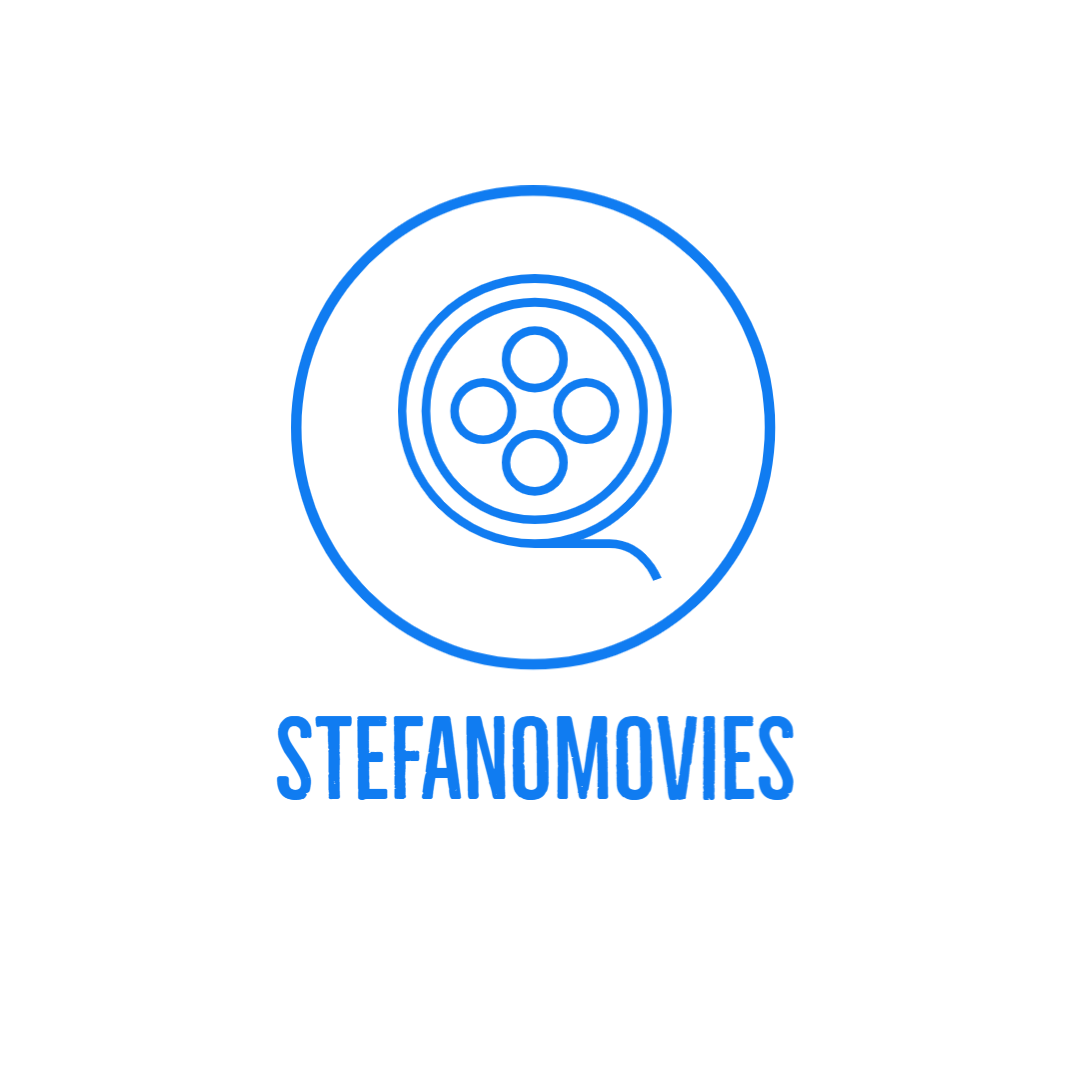
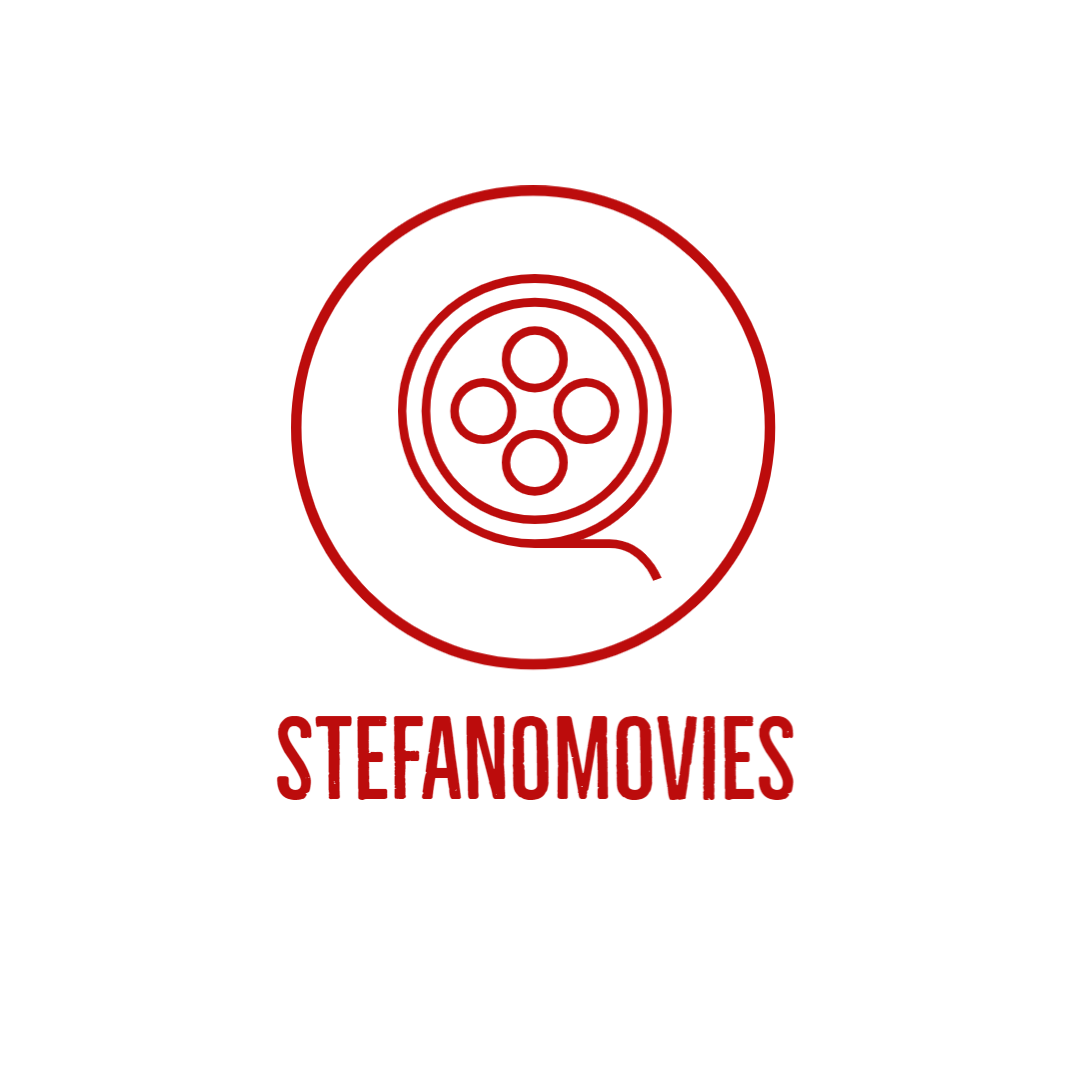
App theme changed and SingleMovieCard component created

diff --git a/src/components/SingleMovieCard.tsx b/src/components/SingleMovieCard.tsx
@@ -1,11 +1,27 @@
+import { useLocation } from "react-router-dom"
+import { Result } from "../interfaces/interfaces";
 import { Navbar } from "./Navbar"
 
+import '../styles/single-movie.css'
 
 export const SingleMovieCard = () => { 
+
+   const moviesState = useLocation().state as Result;
+   
     return(
         <>
         <Navbar />
-        <h1>Single Movie Card</h1>
+        <div id="single-movie-container"
+            style={{
+                backgroundImage: `url(https://image.tmdb.org/t/p/original/${moviesState.backdrop_path})`
+            }}
+        >
+            <div id="single-movie-content">      
+          
+            </div>
+            
+        </div>
+        
         </>
     )
  }

diff --git a/src/App.tsx b/src/App.tsx
@@ -1,6 +1,4 @@
-import { Route, Routes } from 'react-router-dom';
-import { Movies } from './components/Movies';
-import { Navbar } from './components/Navbar';
+import { Navigate, Route, Routes} from 'react-router-dom';
 import { SingleMovieCard } from './components/SingleMovieCard';
 import { MoviesScreen } from './screens/MoviesScreen';
 
@@ -9,7 +7,9 @@ const App = () => {
   return (
     <Routes>
       <Route path='/' element={<MoviesScreen/>} />
-      <Route path='/movie/:id' element={<SingleMovieCard/>}/>
+      <Route path='/movie/:id' element={<SingleMovieCard />}/>
+      {/* <Navigate to='/' /> */}
+      {/* <Route path='*' element={<Redirect to='/'/>}/> */}
     </Routes>
   )
 }

diff --git a/src/styles/navbar.css b/src/styles/navbar.css
@@ -7,10 +7,11 @@
 .search-bar{
     display: flex;
     padding: 0 10px;
+    margin-right: 3rem;
 }
 
 .search-bar input{
-    border: 1.2px solid #0C62BC;
+    border: 1.2px solid #bc0c0c;
     border-radius: 10px;    
     color: white;
     background: none;
@@ -27,9 +28,9 @@
 
 .navbar{
     display: flex;
-    justify-content: space-around;
+    justify-content: space-between;
     align-items: center;
-    background-color: rgb(3, 40, 72);
+    background-color: rgb(0, 0, 0);
 }
 
 .toggle-button{
@@ -43,7 +44,7 @@
 
 .toggle-button .fa-bars{
     font-size: 2.5rem;
-    color: #0C62BC;
+    color: #bc0c0c;
 }
 
 @media (max-width: 768px){

diff --git a/src/styles/single-movie.css b/src/styles/single-movie.css
@@ -1,0 +1,21 @@
+
+
+#single-movie-container{
+    width: 100%;
+    height: 100vh;
+}
+
+/* #single-movie-content{
+    height: 100%;
+    width: 100%;
+    background: linear-gradient(
+        hsl(0 0% 0% /0),
+        hsl(20, 0%, 10% / 0.3) 20%,
+        hsl(0 0% 0% /1)
+    );
+}
+
+
+#single-movie-content img{
+    width: 100%;height: 100%;
+} */

diff --git a/src/components/MovieCard.tsx b/src/components/MovieCard.tsx
@@ -21,7 +21,7 @@ export const MovieCard = ({movieInfo}: MovieCardProps) => {
 
   return (
     <>
-    <Link to={`/movie/${movie.id}`}>
+    <Link to={`/movie/${movie.id}`} state={movie}>
     <div className='movie-content'>
         <img src={`https://image.tmdb.org/t/p/w300/${movie.poster_path}`} alt='Movie poster path'/>
     </div>

diff --git a/src/components/Movies.tsx b/src/components/Movies.tsx
@@ -6,9 +6,7 @@ import '../styles/movie-card.css';
 export const Movies = ()=> {
 
     const {movies_state} = useContext(MoviesContext);
-
     
-    console.log(movies_state.isLoadingPopular)
     return (
     <>
         <p className="movie-type">Popular</p>

diff --git a/src/screens/MoviesScreen.tsx b/src/screens/MoviesScreen.tsx
@@ -6,7 +6,7 @@ export const MoviesScreen = () => {
   return (
     <>
         <Navbar />
-      <Movies/>
+        <Movies/>
     </>
   )
 }

diff --git a/src/styles/movie-card.css b/src/styles/movie-card.css
@@ -1,6 +1,6 @@
 
 body{
-    background-color: rgb(47, 107, 191);
+    background-color: rgb(34, 34, 34);
 }
 
 .movie-type{
